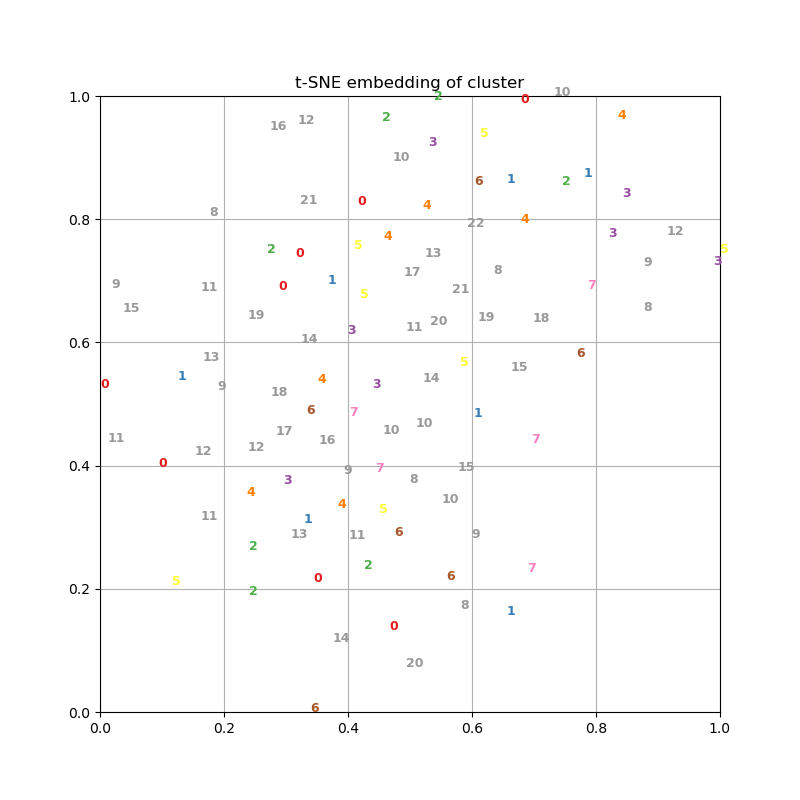
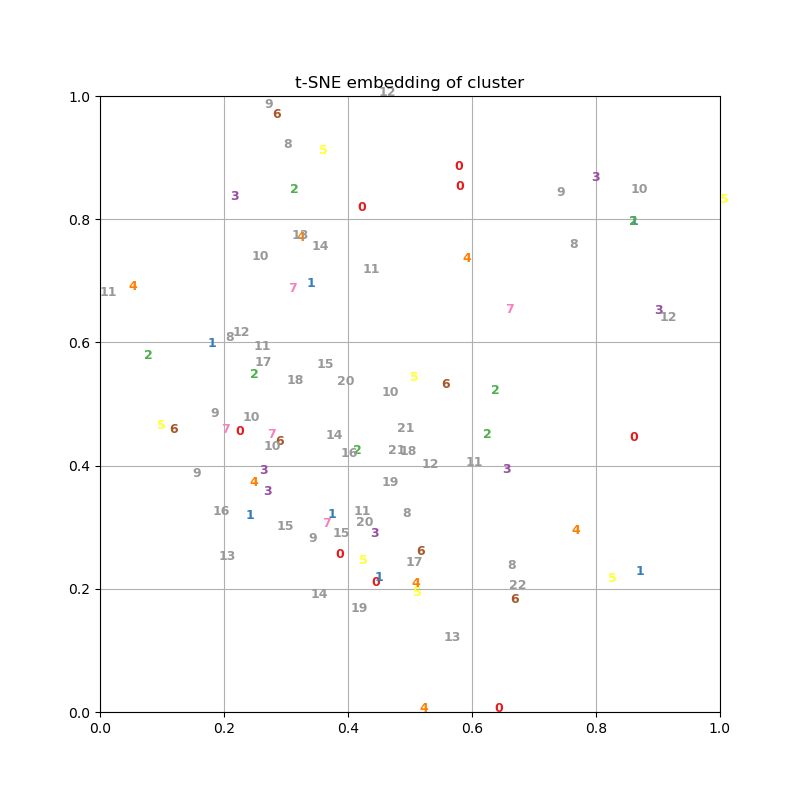
modify sim & dissim

diff --git a/eval.py b/eval.py
@@ -7,6 +7,7 @@ import pandas as pd
 import numpy as np
 import matplotlib.pyplot as plt
 from sklearn.manifold import TSNE
+from sklearn.decomposition import PCA
 
 current_path = os.path.abspath(".")
 
@@ -37,6 +38,8 @@ def eval_similarity(data, q):
         tmp = 0
         for news1, news2 in combinations(cluster, 2):
             tmp += eval_minkowski(news1["embedding"], news2["embedding"], q)
+        if len(cluster) >= 2:
+            tmp = tmp / (len(cluster) * (len(cluster) - 1) / 2)
         ret.append(tmp)
     return ret
 
@@ -47,6 +50,7 @@ def eval_dissimilarity(data, q):
         for news1 in cluster1:
             for news2 in cluster2:
                 tmp += eval_minkowski(news1["embedding"], news2["embedding"], q)
+        tmp = tmp / (len(cluster1) * (len(cluster2)) / 2)
         ret.append(tmp)
     return ret
 
@@ -63,10 +67,13 @@ def show_plot_box(result, method, cmpclass):
     plt.savefig(current_path + "\\out\\" + method + "_" + cmpclass + ".png")
 
 def show_tsne(filename, data):
-    tsne = TSNE(n_components=2, init='pca', random_state=0)
+    # tsne = TSNE()
+    # tsne = TSNE(n_components=2, init='pca', random_state=0)
+    pca = PCA(n_components=2)
     X = [news["embedding"] for cluster in data for news in cluster]
     label = [index for cluster in data for index in range(len(cluster))]
-    result = tsne.fit_transform(X)
+    # result = tsne.fit_transform(X)
+    result = pca.fit_transform(X)
     x_min, x_max = result.min(0), result.max(0)
     X_norm = (result - x_min) / (x_max - x_min)
     plt.figure(figsize=(8, 8))
